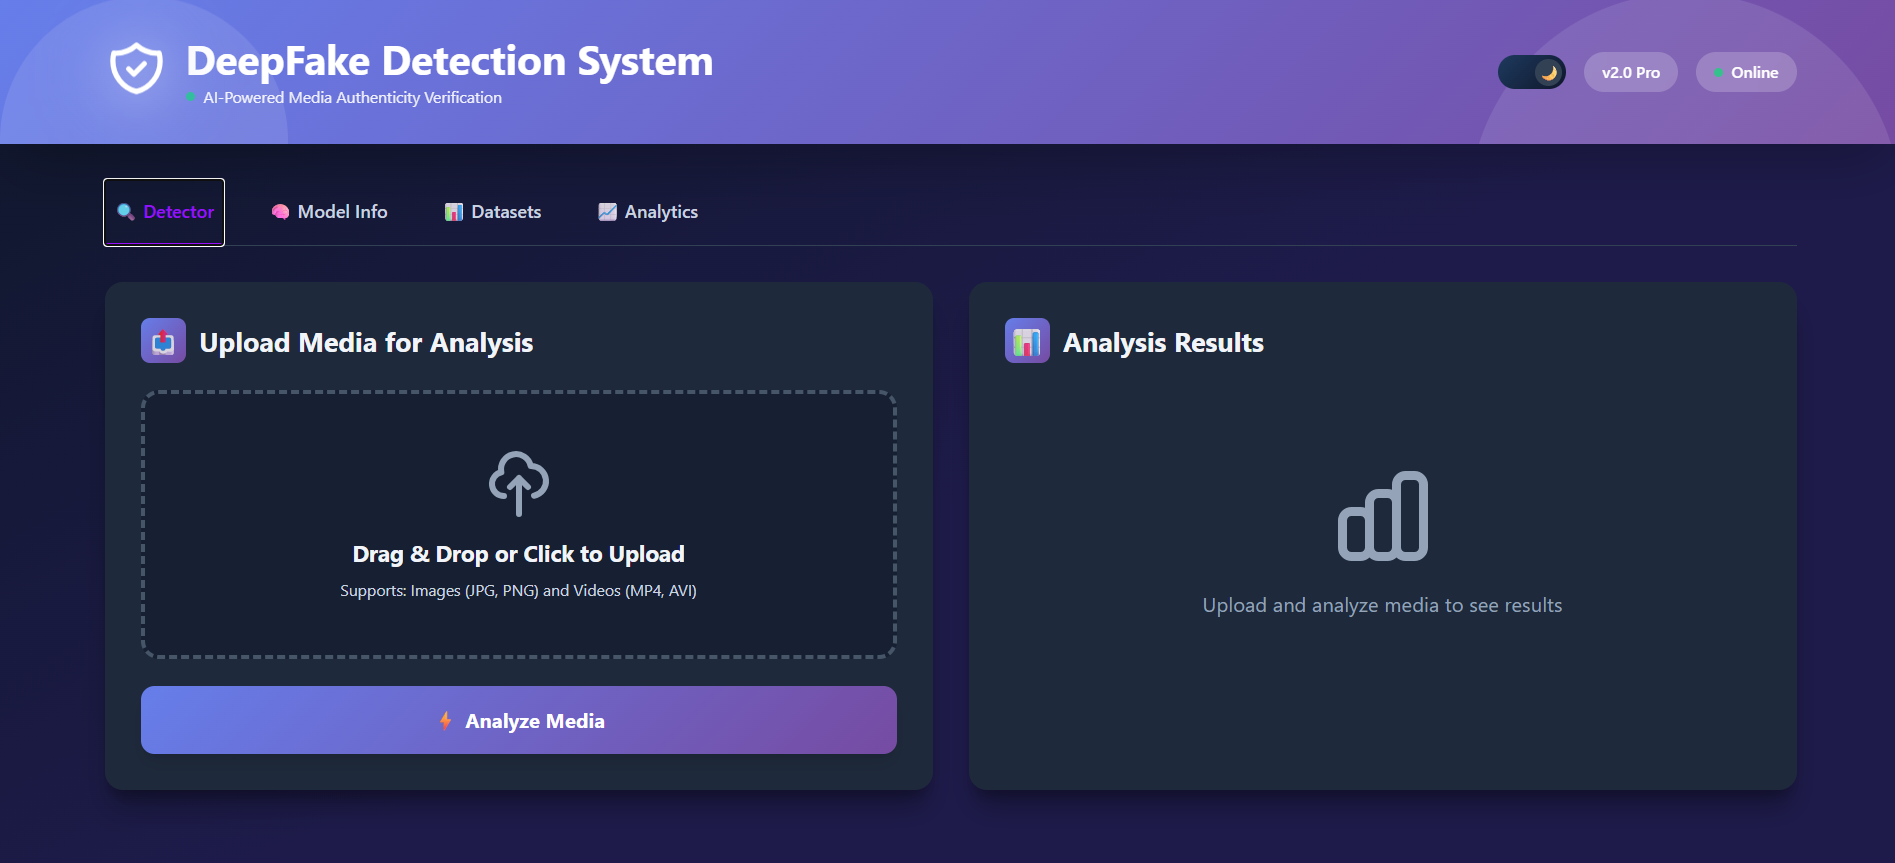
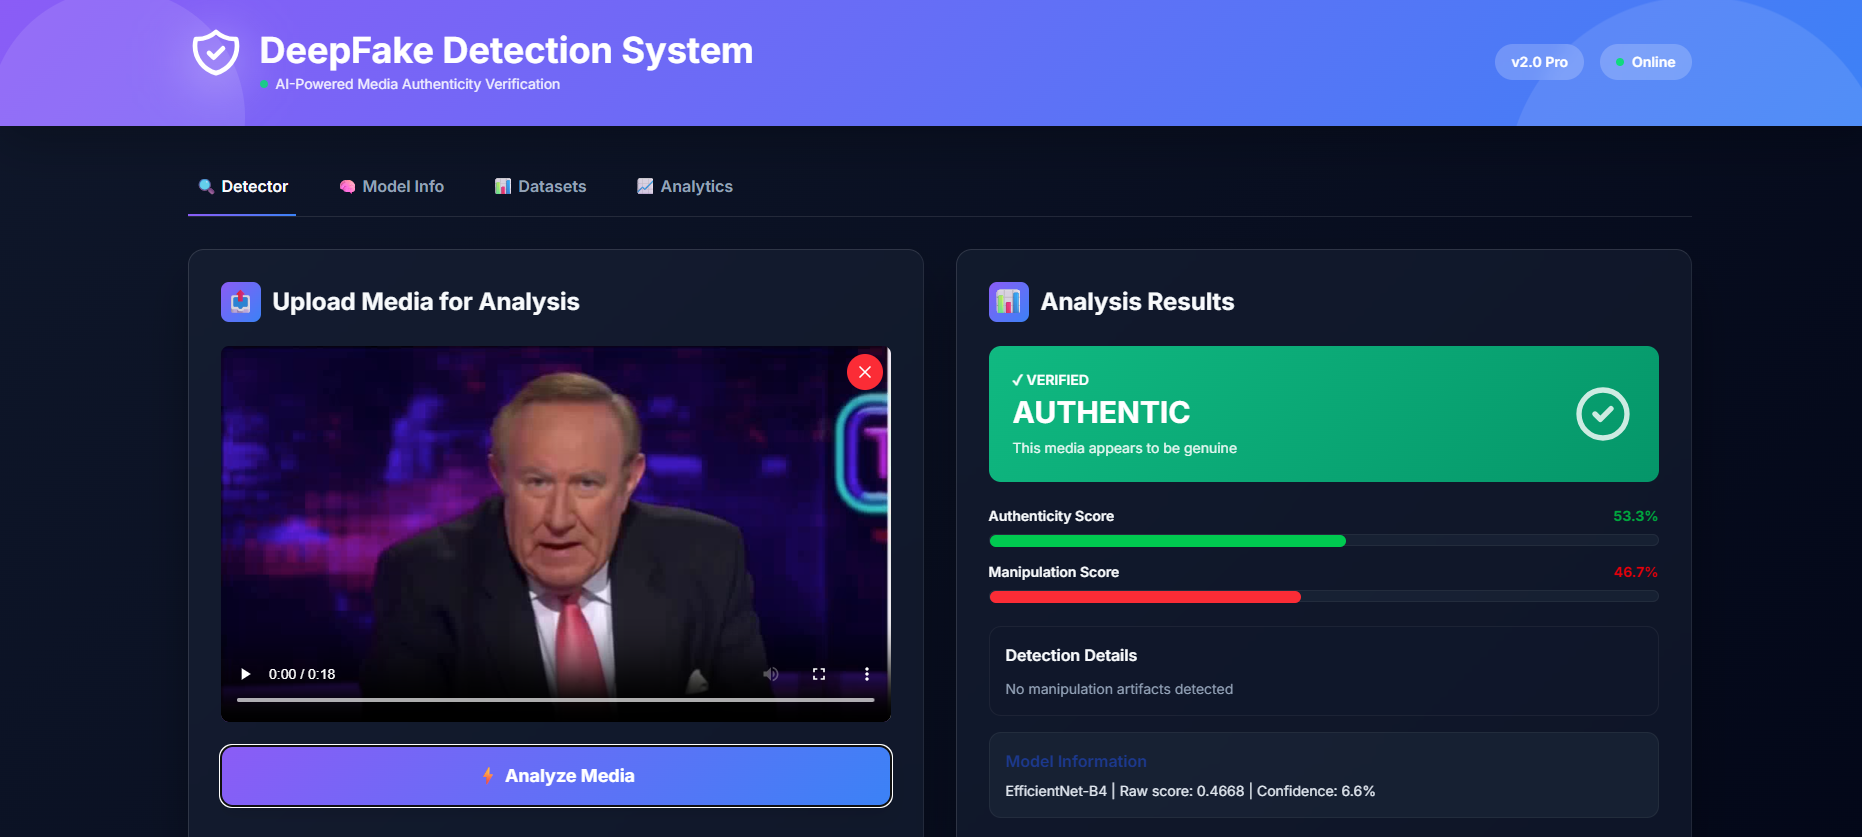
Updated resume and deepfake project screenshot

diff --git a/src/components/Hero.jsx b/src/components/Hero.jsx
@@ -2,18 +2,6 @@ import React, { useEffect, useRef, useState } from 'react';
 
 const Hero = () => {
   const typingRef = useRef(null);
-  const dropdownRef = useRef(null);
-  const [showDropdown, setShowDropdown] = useState(false);
-
-  useEffect(() => {
-    const handleClickOutside = (event) => {
-      if (dropdownRef.current && !dropdownRef.current.contains(event.target)) {
-        setShowDropdown(false);
-      }
-    };
-    document.addEventListener('mousedown', handleClickOutside);
-    return () => document.removeEventListener('mousedown', handleClickOutside);
-  }, []);
 
   useEffect(() => {
     const el = typingRef.current;
@@ -67,55 +55,16 @@ const Hero = () => {
             <p className="hero-description">Recent B.Tech CSE Graduate from GEHU, Dehradun. Aspiring <strong>Software
                 Engineer</strong> & <strong>AI/ML Engineer</strong>, open to opportunities.</p>
             <div className="hero-buttons">
-              <div className="resume-dropdown-container" ref={dropdownRef} style={{ position: 'relative', display: 'inline-block' }}>
-                <button 
-                  className="btn btn--primary" 
-                  onClick={() => setShowDropdown(!showDropdown)}
-                >
-                  📄 Resume 
-                  <span style={{ fontSize: '0.8em', marginLeft: '8px' }}>▼</span>
-                </button>
-                {showDropdown && (
-                  <div className="resume-dropdown" style={{
-                    position: 'absolute',
-                    top: '100%',
-                    left: '0',
-                    marginTop: '10px',
-                    background: 'var(--surface)',
-                    backdropFilter: 'blur(10px)',
-                    border: '1px solid var(--glass-border)',
-                    borderRadius: 'var(--radius)',
-                    padding: '12px',
-                    display: 'flex',
-                    flexDirection: 'column',
-                    gap: '12px',
-                    zIndex: 20,
-                    minWidth: '240px',
-                    boxShadow: 'var(--shadow)'
-                  }}>
-                    <div style={{ display: 'flex', justifyContent: 'space-between', alignItems: 'center' }}>
-                      <span style={{ fontSize: '0.9rem', fontWeight: '500', color: 'var(--text)' }}>Atul_Resume.pdf</span>
-                      <div style={{ display: 'flex', gap: '8px' }}>
-                        <a href="/Atul_Resume.pdf" target="_blank" rel="noreferrer" className="btn btn--primary" style={{ padding: '6px 12px', fontSize: '0.8rem' }}>View</a>
-                        <a href="/Atul_Resume.pdf" download className="btn btn--outline" style={{ padding: '6px 12px', fontSize: '0.8rem' }}>⬇️</a>
-                      </div>
-                    </div>
-                    <div style={{ display: 'flex', justifyContent: 'space-between', alignItems: 'center' }}>
-                      <span style={{ fontSize: '0.9rem', fontWeight: '500', color: 'var(--text)' }}>Atul_Resume_FullStack.pdf</span>
-                      <div style={{ display: 'flex', gap: '8px' }}>
-                        <a href="/Atul_Resume_FullStack.pdf" target="_blank" rel="noreferrer" className="btn btn--primary" style={{ padding: '6px 12px', fontSize: '0.8rem' }}>View</a>
-                        <a href="/Atul_Resume_FullStack.pdf" download className="btn btn--outline" style={{ padding: '6px 12px', fontSize: '0.8rem' }}>⬇️</a>
-                      </div>
-                    </div>
-                    <div style={{ display: 'flex', justifyContent: 'space-between', alignItems: 'center' }}>
-                      <span style={{ fontSize: '0.9rem', fontWeight: '500', color: 'var(--text)' }}>Atul_Resume_SDE.pdf</span>
-                      <div style={{ display: 'flex', gap: '8px' }}>
-                        <a href="/Atul_Resume_SDE.pdf" target="_blank" rel="noreferrer" className="btn btn--primary" style={{ padding: '6px 12px', fontSize: '0.8rem' }}>View</a>
-                        <a href="/Atul_Resume_SDE.pdf" download className="btn btn--outline" style={{ padding: '6px 12px', fontSize: '0.8rem' }}>⬇️</a>
-                      </div>
-                    </div>
-                  </div>
-                )}
+              <div style={{ display: 'flex', alignItems: 'center', gap: '16px', background: 'var(--surface)', border: '1px solid var(--glass-border)', padding: '8px 16px', borderRadius: 'var(--radius)', backdropFilter: 'blur(10px)' }}>
+                <span style={{ fontWeight: '600', color: 'var(--text)' }}>📄 Resume</span>
+                <div style={{ display: 'flex', gap: '8px' }}>
+                  <a href="/Atul_Kumar_Resume.pdf" target="_blank" rel="noreferrer" className="btn btn--primary" style={{ padding: '8px 16px', fontSize: '0.9rem', minWidth: 'auto' }}>
+                    View
+                  </a>
+                  <a href="/Atul_Kumar_Resume.pdf" download className="btn btn--outline" style={{ padding: '8px 16px', fontSize: '0.9rem', minWidth: 'auto' }}>
+                    Download
+                  </a>
+                </div>
               </div>
               <a href="#projects" className="btn btn--outline">🚀 View My Work</a>
             </div>